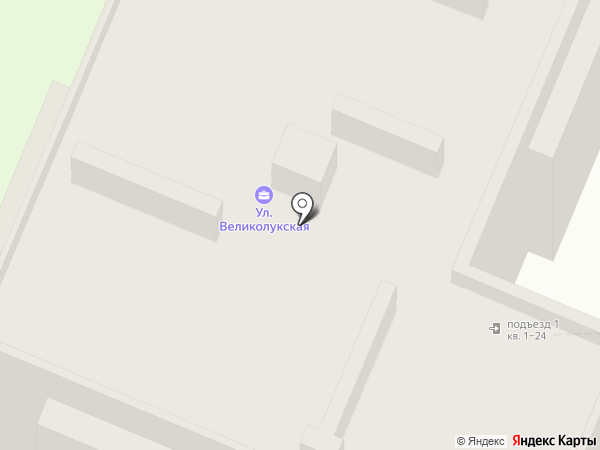
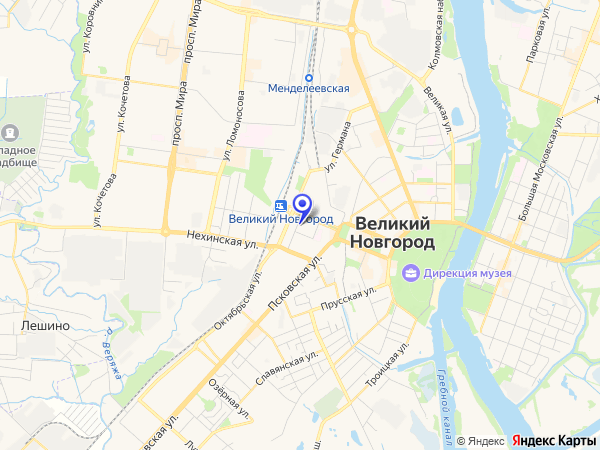
работает

diff --git a/templates/menu.html b/templates/menu.html
@@ -2,9 +2,23 @@
 
 {% block extra_css %}
 <style>
+html {
+    height: auto !important;
+    min-height: 100%;
+}
+
+body {
+    height: auto !important;
+    min-height: 100vh !important;
+    overflow-y: auto !important;
+    overflow-x: hidden !important;
+    display: block !important;
+    margin: 0;
+}
+
 .menu-container {
     max-width: 1100px;
-    margin: 0 auto;
+    margin: 30px auto 40px;
     background: #fff;
     padding: 40px;
     border-radius: 12px;
@@ -110,6 +124,7 @@
 @media (max-width: 576px) {
     .menu-container {
         padding: 25px 20px;
+        margin: 20px auto 30px;
     }
 
     .menu-grid {

diff --git a/templates/admin.html b/templates/admin.html
@@ -2,6 +2,20 @@
 
 {% block extra_css %}
 <style>
+html {
+    height: auto !important;
+    min-height: 100%;
+}
+
+body {
+    height: auto !important;
+    min-height: 100vh !important;
+    overflow-y: auto !important;
+    overflow-x: hidden !important;
+    display: block !important;
+    margin: 0;
+}
+
 .admin-container {
     max-width: 1100px;
     margin: 0 auto;